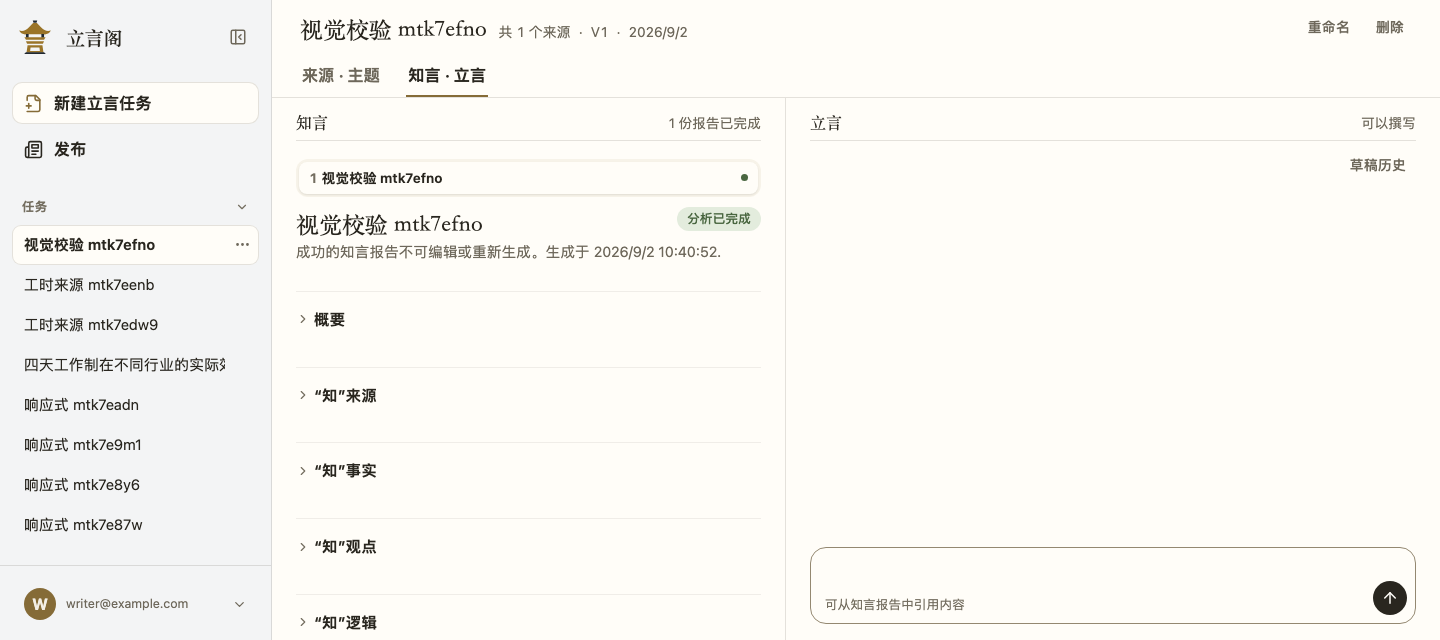
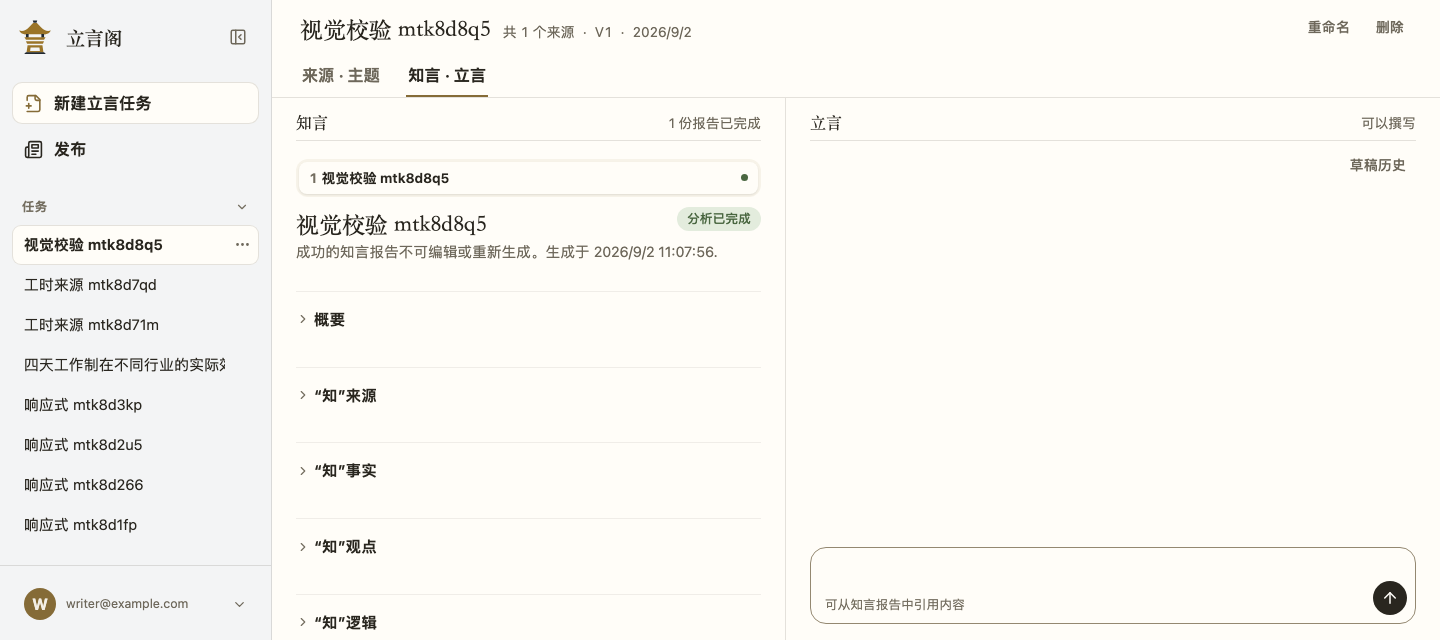
Stop a 来源编辑会话 save from being discarded out from under itself
CI failed where three local runs passed, which is what a race looks like.

Leaving the 来源 pane discards the editing session, and that is deliberate: an
unfinished 来源编辑会话 is unrecoverable by design. But a save is not an
unfinished session. Pressing 保存修改 and then switching tabs unmounted the
pane, the discard reached the server first, and the save was refused against a
session that no longer existed — the writer's changes gone, the screen showing
the version they started from, and nothing saying why.

A save in flight now suppresses the discard, and a refused save hands the
session back so leaving may discard it again. The test that observed a discard
after a *successful* save was asserting the old behaviour; what is worth
asserting is the two cases that matter, so it is now one test for a session the
writer abandons and one for a save still travelling.

The 主题 spec was riding the same race: it read the 知言 area immediately after
pressing save. Leaving mid-save is a thing a writer may do and the product
survives it now, but a test about the state *after* a save has to wait for the
save.

diff --git a/apps/web/src/components/TaskSourceVersions.test.tsx b/apps/web/src/components/TaskSourceVersions.test.tsx
@@ -1,4 +1,4 @@
-import { render, screen, within } from "@testing-library/react";
+import { render, screen, waitFor, within } from "@testing-library/react";
 import userEvent from "@testing-library/user-event";
 import { afterEach, describe, expect, it, vi } from "vitest";
 
@@ -29,6 +29,7 @@ const versionOne = {
   created_at: "2026-08-22T18:00:00Z",
   is_current: true,
   sources: [sourceA, sourceB],
+  theme: null,
   capabilities,
 };
 
@@ -162,7 +163,7 @@ describe("来源 editing and 任务版本 history", () => {
       .toBe(true);
   });
 
-  it("keeps one save identity across a lost response and discards on committed navigation", async () => {
+  it("keeps one save identity across a lost response", async () => {
     let saveAttempts = 0;
     const fetch = vi.fn().mockImplementation(async (request: Request) => {
       if (request.method === "GET") {
@@ -222,9 +223,110 @@ describe("来源 editing and 任务版本 history", () => {
     const keys = await Promise.all(saves.map(async (request) =>
       (JSON.parse(await request.clone().text()) as { idempotency_key: string }).idempotency_key));
     expect(keys[0]).toBe(keys[1]);
+  });
 
+  it("discards a session the writer abandons", async () => {
+    type FetchCall = (request: Request) => Promise<Response>;
+    const fetch = vi.fn<FetchCall>(async (request) => {
+      if (request.url.endsWith("/tasks/task-1/versions")) {
+        return Response.json({ items: [versionOne], historical_limit: 3 });
+      }
+      if (request.url.endsWith("/source-edit-sessions") && request.method === "POST") {
+        return Response.json({ id: "edit-left", base_version: versionOne }, { status: 201 });
+      }
+      if (request.url.endsWith("/source-edit-sessions/edit-left/discard")) {
+        return new Response(null, { status: 204 });
+      }
+      return new Response(null, { status: 404 });
+    });
+    vi.stubGlobal("fetch", fetch);
+    const user = userEvent.setup();
+    render(
+      <TaskSourceVersions
+        accessToken="token"
+        taskId="task-1"
+        onVersionSelected={vi.fn()}
+        onCurrentVersionChanged={vi.fn()}
+      />,
+    );
+
+    await user.click(await screen.findByRole("button", { name: "编辑" }));
+    await user.click(screen.getByRole("button", { name: /Alpha/ }));
+    const alpha = screen.getByRole("group", { name: "来源 Alpha" });
+    await user.type(within(alpha).getByLabelText("来源标题"), " edited");
+
+    // Navigation the browser has committed to: nothing was saved, so the
+    // session is unrecoverable by design and says so now rather than being
+    // left behind on the server.
     window.dispatchEvent(new PageTransitionEvent("pagehide"));
+
+    // The discard resolves a token before it is sent, so it leaves on the next
+    // tick rather than inside the event.
+    await waitFor(() => {
+      expect(fetch.mock.calls.some(([request]) =>
+        (request as Request).url.endsWith("/source-edit-sessions/edit-left/discard"))).toBe(true);
+    });
+  });
+
+  it("does not discard a session whose save is still in flight", async () => {
+    /*
+      Leaving this pane discards the editing session, which is deliberate: an
+      unfinished 来源编辑会话 is unrecoverable. A save is not an unfinished
+      session, and the two raced — pressing 保存修改 and then leaving let the
+      discard reach the server first, and the save was refused against a
+      session that no longer existed. The writer's changes were gone and the
+      screen showed the version they started from, with nothing saying why.
+
+      CI found it before a user did: the same steps pass on a fast machine and
+      lose the race on a slow one.
+    */
+    let releaseSave: (() => void) | null = null;
+    const saveReached = new Promise<void>((resolve) => {
+      releaseSave = resolve;
+    });
+    type FetchCall = (request: Request) => Promise<Response>;
+    const fetch = vi.fn<FetchCall>(async (request) => {
+      if (request.url.endsWith("/tasks/task-1/versions")) {
+        return Response.json({ items: [versionOne], historical_limit: 3 });
+      }
+      if (request.url.endsWith("/source-edit-sessions") && request.method === "POST") {
+        return Response.json({ id: "edit-slow", base_version: versionOne }, { status: 201 });
+      }
+      if (request.url.endsWith("/source-edit-sessions/edit-slow/save")) {
+        releaseSave?.();
+        // Still travelling when the pane goes away.
+        await new Promise((resolve) => setTimeout(resolve, 50));
+        return Response.json({ ...versionOne, id: "version-2", number: 2 });
+      }
+      if (request.url.endsWith("/source-edit-sessions/edit-slow/discard")) {
+        return new Response(null, { status: 204 });
+      }
+      return new Response(null, { status: 404 });
+    });
+    vi.stubGlobal("fetch", fetch);
+    const user = userEvent.setup();
+    const view = render(
+      <TaskSourceVersions
+        accessToken="token"
+        taskId="task-1"
+        onVersionSelected={vi.fn()}
+        onCurrentVersionChanged={vi.fn()}
+      />,
+    );
+
+    await user.click(await screen.findByRole("button", { name: "编辑" }));
+    await user.click(screen.getByRole("button", { name: /Alpha/ }));
+    const alpha = screen.getByRole("group", { name: "来源 Alpha" });
+    await user.clear(within(alpha).getByLabelText("来源标题"));
+    await user.type(within(alpha).getByLabelText("来源标题"), "Alpha edited");
+    void user.click(screen.getByRole("button", { name: "保存修改" }));
+    await saveReached;
+
+    // The writer switches to another view — this pane unmounts mid-save.
+    view.unmount();
+    window.dispatchEvent(new PageTransitionEvent("pagehide"));
+
     expect(fetch.mock.calls.some(([request]) =>
-      (request as Request).url.endsWith("/source-edit-sessions/edit-retry/discard"))).toBe(true);
+      (request as Request).url.endsWith("/source-edit-sessions/edit-slow/discard"))).toBe(false);
   });
 });

diff --git a/apps/web/src/components/TaskSourceVersions.tsx b/apps/web/src/components/TaskSourceVersions.tsx
@@ -136,11 +136,25 @@ export function TaskSourceVersions({
     void load();
   }, [load]);
 
+  /*
+    Whether a save has been sent for the session being torn down.
+
+    Leaving this pane discards the editing session, which is the whole point:
+    an unfinished 来源编辑会话 is deliberately unrecoverable. But a save is not
+    an unfinished session, and the two used to race — pressing 保存修改 and then
+    switching tabs unmounted this pane, the discard reached the server first,
+    and the save was refused against a session that no longer existed. The
+    writer's changes were gone and the screen showed the version they had
+    before, with nothing saying why.
+  */
+  const savingRef = useRef(false);
+
   useEffect(() => {
     if (!editSessionId) return;
     editingChangeRef.current(true);
     const warn = (event: BeforeUnloadEvent) => event.preventDefault();
     const discardOnCommittedNavigation = () => {
+      if (savingRef.current) return;
       void discardSourceEditSession(accessToken, editSessionId, true).catch(() => undefined);
     };
     window.addEventListener("beforeunload", warn);
@@ -148,7 +162,9 @@ export function TaskSourceVersions({
     return () => {
       window.removeEventListener("beforeunload", warn);
       window.removeEventListener("pagehide", discardOnCommittedNavigation);
-      void discardSourceEditSession(accessToken, editSessionId).catch(() => undefined);
+      if (!savingRef.current) {
+        void discardSourceEditSession(accessToken, editSessionId).catch(() => undefined);
+      }
       editingChangeRef.current(false);
     };
   }, [accessToken, editSessionId]);
@@ -272,6 +288,9 @@ export function TaskSourceVersions({
   async function save() {
     if (!editSessionId) return;
     setBusy(true);
+    // From here until this either lands or fails, leaving the pane must not
+    // discard the session out from under the request.
+    savingRef.current = true;
     try {
       const saved = await saveSourceEditSession(accessToken, editSessionId, {
         idempotency_key: saveIdempotencyKey ?? crypto.randomUUID(),
@@ -314,6 +333,9 @@ export function TaskSourceVersions({
       currentChangeRef.current(saved);
       setError(null);
     } catch {
+      // Refused or unreachable: the session is still the writer's to abandon,
+      // so leaving may discard it again.
+      savingRef.current = false;
       setError(SAVE_FAILED);
     } finally {
       setBusy(false);

diff --git a/apps/web/e2e/theme.spec.ts b/apps/web/e2e/theme.spec.ts
@@ -119,13 +119,20 @@ test("主题可以在编辑来源时改写与清空", async ({ page }) => {
   });
 
   await card.getByRole("tab", { name: "来源 · 主题" }).click();
-  await card.getByRole("button", { name: "编辑" }).click();
+  await card.getByRole("button", { name: "编辑", exact: true }).click();
   const themeField = card.getByLabel("主题", { exact: true });
   await expect(themeField).toHaveValue("四天工作制的实际代价");
 
   // Clearing it is a save like any other, and it takes the 主题 report with it.
   await themeField.fill("");
   await card.getByRole("button", { name: /保存修改/ }).click();
+  // Wait for the save to have landed before reading the 知言 area. Leaving the
+  // pane while it is in flight is a thing a writer may do — and the product now
+  // survives it — but a test that asserts the state *after* a save has to wait
+  // for the save, or it is asserting on whichever arrived first.
+  // The read-only 主题 card saying 未设置 is the save having landed *and* the
+  // thing this test is about: this version has no 主题 now.
+  await expect(card.getByText("未设置")).toBeVisible();
   await card.getByRole("tab", { name: "知言 · 立言" }).click();
   // One tab left: the 主题 that was cleared is gone, and so is its report.
   await expect(reportTabs(card).getByRole("tab")).toHaveCount(1);
